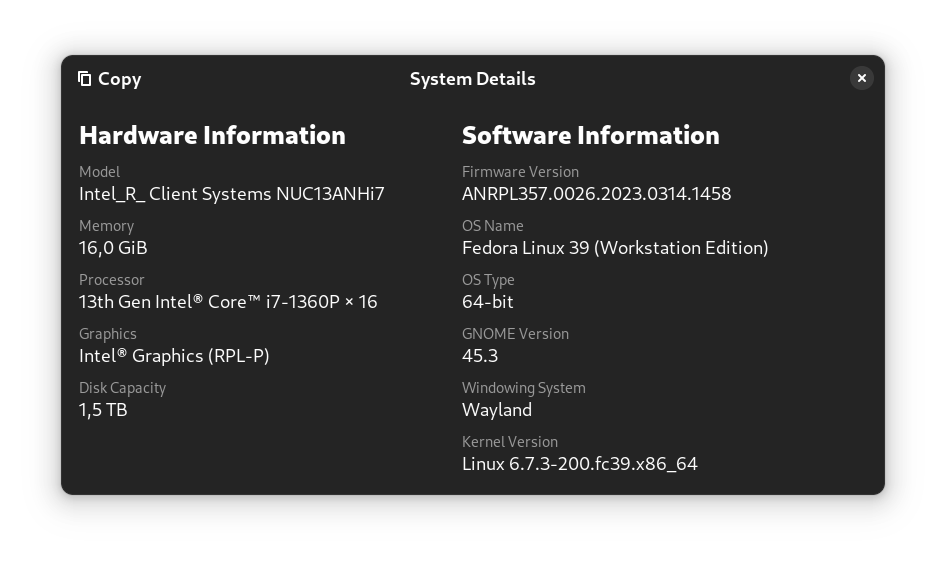
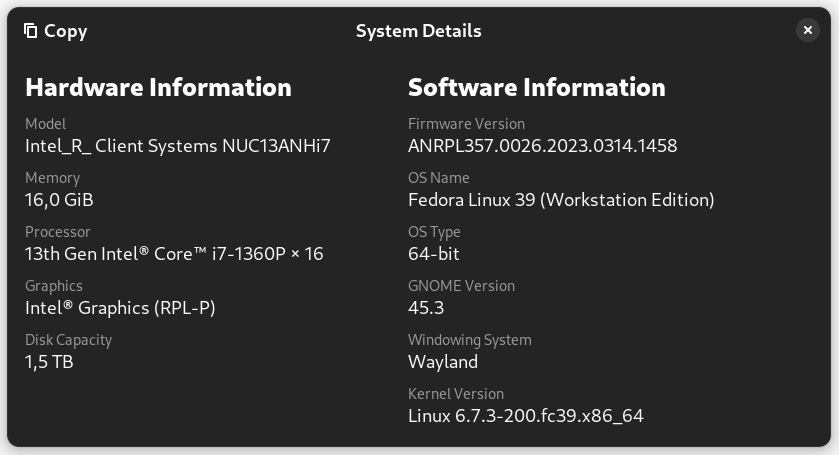
chore: Update blog posts and images
- Updated system specs image.
- Removed table of contents from "De liefde" blog post.
- Added link formatting in "Nothing to Say" blog post.
- Added "astro" tag to "Here I Am" blog post.
- Added "bull-terrier" tag to "Our Dog Bogdan" blog post.
- Deleted "Kleurplaat" blog post.
- Updated link formatting in "First Glance at Astro" blog post.
- Updated link formatting in "NgRx SignalStore" blog post.
- Updated link formatting in "New Linux PC" blog post.
- Updated link formatting in "Bun Workspace" blog post.
- Added "editor" tag to "Zed Editor on Fedora" blog post.
- Added "gnome", "wayland", and "hyprland" tags to "Moving from GNOME to Hyprland" blog post.
- Added tags to "My Last Neovim Config" blog post.
- Created new blog post for "My new side-project called Rapinsel".
- Updated links and formatting in "In the Beginning" blog post.
- Updated links and formatting in "There Was Rust" blog post.
- Updated links and formatting in "Let There Be Dependencies" blog post.
- Updated links and formatting in "And the Test Shineth in Darkness" blog post.
- Updated links and formatting in "And the Word Was Given by Automation" blog post.
- Updated links and formatting in "He Was in the Query" blog post.
- Updated links and formatting in "And Then Rust Said" blog post.
- Added tags to "Our First Trip to Paris" blog post.

diff --git a/src/data/blog/_programming/0006-virtual-machine-manager.md b/src/data/blog/_programming/0006-virtual-machine-manager.md
@@ -6,8 +6,8 @@ slug: virtual-machine-manager
 featured: false
 draft: false
 tags:
-  - programming
   - linux
+  - programming
 description: Trying out any linux distro with Virtual Machine Manager
 ---
 
@@ -15,7 +15,7 @@ description: Trying out any linux distro with Virtual Machine Manager
 
 I remember in the old days you had to recompile your kernel to get your hardware working. Nowadays, you can just download a linux distro and install it on your machine without any hassle for the most part. But what if you want to try out a distro without installing it on your machine? That's where Virtual Machine Manager comes in.
 
-Find the Virtual Machine Manager in your package manager and install it. You can then create a new virtual machine and install any linux distro you want. You can even try out different desktop environments to see which one you like best. If you on Fedora like me you don't have to do anything else but install the Virtual Machine Manager. Just follow the steps in the docs: [https://docs.fedoraproject.org/en-US/quick-docs/virtualization-getting-started/](https://docs.fedoraproject.org/en-US/quick-docs/virtualization-getting-started/)
+Find the Virtual Machine Manager in your package manager and install it. You can then create a new virtual machine and install any linux distro you want. You can even try out different desktop environments to see which one you like best. If you on Fedora like me you don't have to do anything else but install the Virtual Machine Manager. Just follow the steps in the docs: 🔗 [https://docs.fedoraproject.org/en-US/quick-docs/virtualization-getting-started/](https://docs.fedoraproject.org/en-US/quick-docs/virtualization-getting-started/)
 
 I am running Kali 2024.1 for my study and if I accidentally fuck it up I just download the premade diskimage from the Kali website and I'm back in business in like 10 minutes. It is a fantastic tool to quickly spin up a distro and learn how that system works.
 
@@ -25,11 +25,7 @@ I am running Kali 2024.1 for my study and if I accidentally fuck it up I just do
 
 <h4 style="text-align: center; padding-bottom: 26px;">
 I learned a lot reading this book and it is a nice to have reference<br /><br />
-  <a 
-    href="https://amzn.to/3HmAqDI" target="_blank">Click here to get your copy of the book The Ultimate Kali Linux Book - Third Edition: Harness Nmap, Metasploit, Aircrack-ng, and Empire for cutting-edge pentesting
-  </a>
+  <a href="https://amzn.to/3HmAqDI" target="_blank">Click here to get your copy of the book The Ultimate Kali Linux Book</a>
 </h4>
 
 ![image](@/assets/images/kali-linux-book.jpg)
-
----

diff --git a/src/data/blog/_rapinsel-spleen/0005-and-the-word-was-given-by-automation.md b/src/data/blog/_rapinsel-spleen/0005-and-the-word-was-given-by-automation.md
@@ -80,10 +80,19 @@ POSTGRES_PASSWORD="secret"
 The `docker-compose.yml` I basically copied from the Docker website and looks like this:
 
 ```yml
-version: "3.9"
-services:
-  db:
-    image: ${DOCKER_IMAGE}
+version: "3.9"---
+
+<h4 style="text-align: center; padding-bottom: 26px;">
+I learned a lot reading this book and it is a nice to have reference<br /><br />
+  <a
+    href="https://amzn.to/4kiPb97" target="_blank">Click here to get your copy of the book Rust Essentials: Rust Essentials for Backend Engineers
+  </a>
+</h4>
+
+![image](@/assets/images/rust-book.jpg)
+
+---
+
     container_name: ${CONTAINER_NAME}
     shm_size: 128mb
     restart: always
@@ -128,7 +137,7 @@ ddown:
 	docker-compose down2024-07-09T09:08:51.324Z
 ```
 
-If you are using VSCode you could install these extensions: [Database Client JDBC](https://marketplace.visualstudio.com/items?itemName=cweijan.dbclient-jdbc) to have a nice gui to connect and interact with your postgres database and the [Docker Extension](https://marketplace.visualstudio.com/items?itemName=ms-azuretools.vscode-docker) but if you have your own tools that's fine too, use whatever you like.
+If you are using VSCode you could install these extensions: 🔗 [Database Client JDBC](https://marketplace.visualstudio.com/items?itemName=cweijan.dbclient-jdbc) to have a nice gui to connect and interact with your postgres database and the 🔗 [Docker Extension](https://marketplace.visualstudio.com/items?itemName=ms-azuretools.vscode-docker) but if you have your own tools that's fine too, use whatever you like.
 
 Play and poke around in your database and docker instance and if you mess up, no worries you can always delete the whole crap and start over.
 
@@ -138,11 +147,7 @@ In the next chapter we...
 
 <h4 style="text-align: center; padding-bottom: 26px;">
 I learned a lot reading this book and it is a nice to have reference<br /><br />
-  <a
-    href="https://amzn.to/4kiPb97" target="_blank">Click here to get your copy of the book Rust Essentials: Rust Essentials for Backend Engineers
-  </a>
+  <a href="https://amzn.to/4kiPb97" target="_blank">Click here to get your copy of the book Rust Essentials</a>
 </h4>
 
 ![image](@/assets/images/rust-book.jpg)
-
----

diff --git a/src/data/blog/_personal/0001-here-i-am.md b/src/data/blog/_personal/0001-here-i-am.md
@@ -7,6 +7,7 @@ slug: here-i-am
 featured: false
 draft: false
 tags:
+  - astro
   - personal
 description: How you will learn who I am and what I like
 ---
@@ -18,7 +19,7 @@ After some failed attempts to build a nice blog that is easy to use and maintain
 I knew Astro was out there for a while but never gave it any attention. I just thought it was just another framework like so many others that seem to pop up every other month.
 
 The first YouTube video that caught my real interest was with the creator of Astro and ThePrimeagen (you can watch that video here: 🔗 [Astro 3.0 GETS HTMX?? Creator of Astro Joins!](https://www.youtube.com/watch?v=X71OVbqt614) and that made sense to me in terms of making and maintaining a simple blog website. I know that video talks about htmx but in the back of my mind I was still thinking about the blog I wanted to start.
-
+: A Complete Guide: Build Smarter Sites with Astro!
 The failed attempt I talked about in the intro was using markdown files in Angular. Now, don't get me wrong, I am a huge fan of Angular but for making a blog it is just too much. Another video from ThePrimeagen 🔗 [WebComponents Will Outlive Your JavaScript Framework | Prime Reacts](https://www.youtube.com/watch?v=1vF6puwX3bE&t=1529s) convinced me to go with a much simpler system like Astro. I will try out Webcomponents in Astro in the future.
 
 ## What are my plans for this blog?
@@ -29,11 +30,7 @@ Well, I wanna write about things that I like in life. My wife, my family, my dog
 
 <h4 style="text-align: center; padding-bottom: 26px;">
 I learned a lot reading this book and it is a nice to have reference<br /><br />
-  <a 
-    href="https://amzn.to/43TC4Wa" target="_blank">Click here to get your copy of the book Mastering Astro: A Complete Guide: Build Smarter Sites with Astro! 
-  </a>
+  <a href="https://amzn.to/43TC4Wa" target="_blank">Click here to get your copy of the book Mastering Astro</a>
 </h4>
 
 ![image](@/assets/images/astro-framework.jpg)
-
----

diff --git a/src/data/blog/_rapinsel-spleen/0003-let-there-be-dependencies.md b/src/data/blog/_rapinsel-spleen/0003-let-there-be-dependencies.md
@@ -31,7 +31,15 @@ This will install the latest version and also update the `Cargo.toml` file:
 
 ```toml
 ...
-[dependencies]
+[dependencies]---
+
+<h4 style="text-align: center; padding-bottom: 26px;">
+I learned a lot reading this book and it is a nice to have reference<br /><br />
+  <a href="https://amzn.to/4kiPb97" target="_blank">Click here to get your copy of the book Rust Essentials</a>
+</h4>
+
+![image](@/assets/images/rust-book.jpg)
+
 actix-web = "4.8.0"
 ```
 
@@ -56,7 +64,15 @@ In order for calling an endpoint we need a http server and actix-web let's you m
 #[actix_web::main]
 async fn main() -> std::io::Result<()> {
     HttpServer::new(|| App::new()
-        .service(health_check_handler))
+        .service(health_check_han---
+
+<h4 style="text-align: center; padding-bottom: 26px;">
+I learned a lot reading this book and it is a nice to have reference<br /><br />
+  <a href="https://amzn.to/4kiPb97" target="_blank">Click here to get your copy of the book Rust Essentials</a>
+</h4>
+
+![image](@/assets/images/rust-book.jpg)
+dler))
         .bind(("127.0.0.1", 5174))?
         .run()
         .await?;
@@ -174,11 +190,7 @@ It doesn't really matter which code editor you use, I switch a lot between VSCod
 
 <h4 style="text-align: center; padding-bottom: 26px;">
 I learned a lot reading this book and it is a nice to have reference<br /><br />
-  <a 
-    href="https://amzn.to/4kiPb97" target="_blank">Click here to get your copy of the book Rust Essentials: Rust Essentials for Backend Engineers
-  </a>
+  <a href="https://amzn.to/4kiPb97" target="_blank">Click here to get your copy of the book Rust Essentials</a>
 </h4>
 
 ![image](@/assets/images/rust-book.jpg)
-
----

diff --git a/src/data/blog/_rapinsel-spleen/0006-he-was-in-the-query.md b/src/data/blog/_rapinsel-spleen/0006-he-was-in-the-query.md
@@ -17,7 +17,7 @@ description: He was in the data - And the data was fetched with sqlx
 
 ## Installing sqlx and friends
 
-Yeah the title says it: we will be using sqlx to get data out of our postgres database. What is it you might ask? Well it is a library to help you running queries on a database. One of the nice features of this library is that it checks your queries in compile-time so errors are caught early and won't make it into production. If you like to know more take a look at this link: [https://crates.io/crates/sqlx](https://crates.io/crates/sqlx)
+Yeah the title says it: we will be using sqlx to get data out of our postgres database. What is it you might ask? Well it is a library to help you running queries on a database. One of the nice features of this library is that it checks your queries in compile-time so errors are caught early and won't make it into production. If you like to know more take a look at this link: 🔗 [https://crates.io/crates/sqlx](https://crates.io/crates/sqlx)
 
 Time to install sqlx and the features we need:
 
@@ -123,11 +123,7 @@ In the next chapter we will make an endpoint and query some faqs my friends.
 
 <h4 style="text-align: center; padding-bottom: 26px;">
 I learned a lot reading this book and it is a nice to have reference<br /><br />
-  <a 
-    href="https://amzn.to/4kiPb97" target="_blank">Click here to get your copy of the book Rust Essentials: Rust Essentials for Backend Engineers
-  </a>
+  <a href="https://amzn.to/4kiPb97" target="_blank">Click here to get your copy of the book Rust Essentials</a>
 </h4>
 
 ![image](@/assets/images/rust-book.jpg)
-
----

diff --git a/src/data/blog/_rapinsel-spleen/0000-new-side-project-called-rapinsel.md b/src/data/blog/_rapinsel-spleen/0000-new-side-project-called-rapinsel.md
@@ -27,27 +27,23 @@ I'll make an seperate blog section where you can read all about the progress and
 
 So far there are 6 posts about it:
 
-[6) And the data was fetched with sqlx](/posts/sprs-part6-and-the-data-was-fetched-with-sqlx/)
-
-[5) For the law was given by Make](/posts/sprs-part5-and-the-word-was-given-by-automation/)
-
-[4) To bear witness of the Test](/posts/sprs-part4-and-the-test-shineth-in-darkness/)
-
-[3) Let there be dependencies](/posts/sprs-part3-let-there-be-dependencies/)
+[1) In the beginning](/posts/sprs-part1-in-the-beginning/)
 
 [2) There was Rust](/posts/sprs-part2-there-was-rust/)
 
-[1) In the beginning](/posts/sprs-part1-in-the-beginning/)
+[3) Let there be dependencies](/posts/sprs-part3-let-there-be-dependencies/)
+
+[4) To bear witness of the Test](/posts/sprs-part4-and-the-test-shineth-in-darkness/)
+
+[5) For the law was given by Make](/posts/sprs-part5-and-the-word-was-given-by-automation/)
+
+[6) And the data was fetched with sqlx](/posts/sprs-part6-and-the-data-was-fetched-with-sqlx/)
 
 ---
 
 <h4 style="text-align: center; padding-bottom: 26px;">
 I learned a lot reading this book and it is a nice to have reference<br /><br />
-  <a 
-    href="https://amzn.to/4kiPb97" target="_blank">Click here to get your copy of the book Rust Essentials: Rust Essentials for Backend Engineers
-  </a>
+  <a href="https://amzn.to/4kiPb97" target="_blank">Click here to get your copy of the book Rust Essentials</a>
 </h4>
 
 ![image](@/assets/images/rust-book.jpg)
-
----

diff --git a/src/data/blog/_programming/0002-ngrx-signalstore.md b/src/data/blog/_programming/0002-ngrx-signalstore.md
@@ -14,7 +14,7 @@ tags:
 description: Why I think NgRx SignalStore is also useful in small projects
 ---
 
-2024-02-06T15:56:04.255Zd NgRx on Reddit and as always the topic of boilerplate comes up. Now, in itself, that's ok with me but people tend to focus on that too much in my opinion. NgRx has its place and I always say: make sure your project needs it before you start using it and planning on pushing it into production.
+NgRx on Reddit and as always the topic of boilerplate comes up. Now, in itself, that's ok with me but people tend to focus on that too much in my opinion. NgRx has its place and I always say: make sure your project needs it before you start using it and planning on pushing it into production.
 
 Having said that I also think NgRx has its place in smaller projects, so let's explore that a little, the new and shiny Signal Store in particular.
 
@@ -72,11 +72,7 @@ Check out the docs and have fun with it! 🔗 [https://ngrx.io/guide/signals](ht
 
 <h4 style="text-align: center; padding-bottom: 26px;">
 I learned a lot reading this book and it is a nice to have reference<br /><br />
-  <a 
-    href="https://amzn.to/3T2txtL" target="_blank">Click here to get your copy of the book Reactive State for Angular with NgRx: Learn to build Reactive Angular Applications using NgRx
-  </a>
+  <a href="https://amzn.to/3T2txtL" target="_blank">Click here to get your copy of the book Reactive State for Angular</a>
 </h4>
 
 ![image](@/assets/images/ngrx.jpg)
-
----

diff --git a/src/data/blog/_rapinsel-spleen/0004-and-the-test-shineth-in-darkness.md b/src/data/blog/_rapinsel-spleen/0004-and-the-test-shineth-in-darkness.md
@@ -68,10 +68,16 @@ test tests::test_health_check_ha2024-07-09T08:30:52.187Zed; 0 ignored; 0 measure
 
 A failing test looks like this:
 
-```zsh
-   Compiling backend v0.1.0 (/Code/backend)
-    Finished `test` profile [unoptimized + debuginfo] target(s) in 1.39s
-     Running unittests src/main.rs (target/debug/deps/backend-c9cee311d72ed333)
+```zsh<h4 style="text-align: center; padding-bottom: 26px;">
+I learned a lot reading this book and it is a nice to have reference<br /><br />
+  <a
+    href="https://amzn.to/4kiPb97" target="_blank">Click here to get your copy of the book Rust Essentials: Rust Essentials for Backend Engineers
+  </a>
+</h4>
+
+![image](@/assets/images/rust-book.jpg)
+
+---
 
 running 1 test
 test tests::test_health_check_handler ... FAILED <!-- the wrath of Rust!
@@ -196,11 +202,7 @@ In the next chapters we will be setting up a docker for a postgres database and 
 
 <h4 style="text-align: center; padding-bottom: 26px;">
 I learned a lot reading this book and it is a nice to have reference<br /><br />
-  <a 
-    href="https://amzn.to/4kiPb97" target="_blank">Click here to get your copy of the book Rust Essentials: Rust Essentials for Backend Engineers
-  </a>
+  <a href="https://amzn.to/4kiPb97" target="_blank">Click here to get your copy of the book Rust Essentials</a>
 </h4>
 
 ![image](@/assets/images/rust-book.jpg)
-
----

diff --git a/src/data/blog/_programming/0003-new-linux-pc.md b/src/data/blog/_programming/0003-new-linux-pc.md
@@ -17,7 +17,7 @@ description: My new linux PC
 
 So, my old beloved 27 inch iMac died. I bought it a few years ago, second hand and it did its job well. So, I wanted a new pc so I found this Dutch company that ships laptops and mini pc's with linux. I ordered the Intel NUC13 Linux Mini-computer with an i5, but when it arrived they mixed up my order with someone from Spain. I called them and they said no problem we will fix it and they were kind enough to upgrade it to a i7, so that was great. It came pre-intalled with Debian (you can choose a distro) but after a few days I switched to Fedora 38.
 
-Website where I bouhgt my new pc: [Laptop With Linux](https://laptopwithlinux.com/)
+Website where I bouhgt my new pc: 🔗 [Laptop With Linux](https://laptopwithlinux.com/)
 
 ![System Specs](@/assets/images/system-specs.png)
 
@@ -34,11 +34,7 @@ I'm using `Timeshift` for system and `Pika Backup` for my home directory backups
 ---
 
 <h4 style="text-align: center; padding-bottom: 26px;">
-  <a 
-    href="https://amzn.to/4kK56NG" target="_blank">Click here for a NUC13 like I have
-  </a>
+  <a href="https://amzn.to/4kK56NG" target="_blank">Click here for a NUC13 like I have</a>
 </h4>
 
 ![image](@/assets/images/nuc13.png)
-
----

diff --git a/src/data/blog/_programming/0011-moving-from-gnome-to-hyprland.md b/src/data/blog/_programming/0011-moving-from-gnome-to-hyprland.md
@@ -6,8 +6,11 @@ slug: moving-from-gnome-to-hyprland
 featured: false
 draft: false
 tags:
+  - rofi
+  - gnome
+  - wayland
+  - hyprland
   - programming
-  - personal
 description: Thinking of switching from GNOME to Hyprland? Discover why I moved to this dynamic Wayland tiling compositor, how it compares to GNOME, and how to get started.
 ---
 
@@ -23,7 +26,7 @@ That's when I found Hyprland, a dynamic tiling Wayland compositor. It immediatel
 
 ## First Impressions and Configuration
 
-The initial experience was surprisingly smooth. Despite being under active development, Hyprland worked well out of the box. The documentation is solid, and I found plenty of community dotfiles to draw inspiration from, including [my own config here](https://github.com/mylinuxforwork/dotfiles).
+The initial experience was surprisingly smooth. Despite being under active development, Hyprland worked well out of the box. The documentation is solid, and I found plenty of community dotfiles to draw inspiration from, including 🔗 [my own config here](https://github.com/mylinuxforwork/dotfiles).
 
 Here's what I set up early on:
 

diff --git a/src/data/blog/_music/0002-jethro-tull-nothing-to-say.md b/src/data/blog/_music/0002-jethro-tull-nothing-to-say.md
@@ -14,7 +14,7 @@ description: A song I love - Jethro Tull - Nothing to Say
 
 I remember when I was around 10 years old my father had this album and told me the singer also played the flute. He played that record a lot but I don't remember liking the music back then. Until I found this song of Jethro Tull, Nothing to Say and I think it is one of the best songs ever. Funny thing is that I always thought the guy with the flute was named Jethro but it turns out he named his band after a agriculturist from the 17th century.
 
-Wikipedia: [Jethro Tull (agriculturist)](<https://en.wikipedia.org/wiki/Jethro_Tull_(agriculturist)>)
+🔗 Wikipedia: [Jethro Tull (agriculturist)](<https://en.wikipedia.org/wiki/Jethro_Tull_(agriculturist)>)
 
 Listen to this beautiful song on YouTube (the lyrics are breathtaking):
 

diff --git a/src/data/blog/_programming/0007-my-first-contribution-to-an-open-source-project.md b/src/data/blog/_programming/0007-my-first-contribution-to-an-open-source-project.md
@@ -7,6 +7,7 @@ featured: false
 draft: false
 tags:
   - personal
+  - opensource
   - programming
 description: My first contribution to an open-source project
 ---
@@ -23,11 +24,7 @@ On that note: have a look at that project, the maintainer build a awesome fork o
 
 <h4 style="text-align: center; padding-bottom: 26px;">
 I learned a lot reading this book and it is a nice to have reference<br /><br />
-  <a 
-    href="https://amzn.to/43nDU1n" target="_blank">Click here to get your copy of the book Forge Your Future with Open Source: Build Your Skills. Build Your Network. Build the Future of Technology.
-  </a>
+  <a href="https://amzn.to/43nDU1n" target="_blank">Click here to get your copy of the book Forge Your Future with Open Source</a>
 </h4>
 
 ![image](@/assets/images/opensource-book.jpg)
-
----
